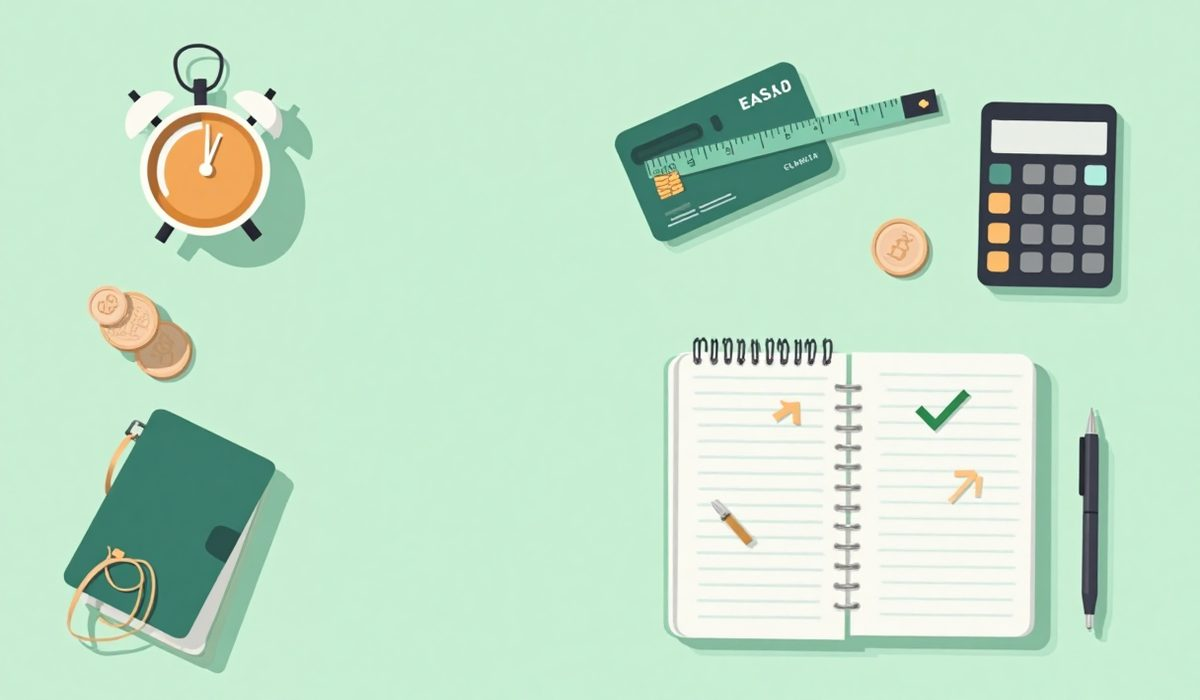
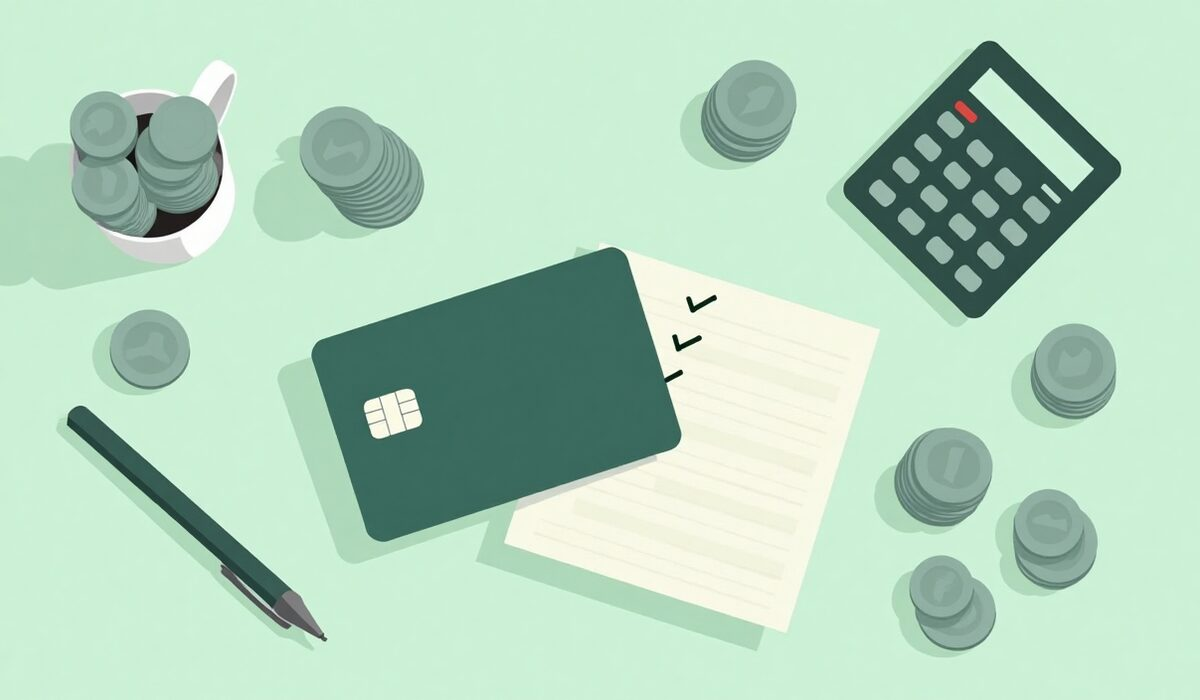
Blog: fix worked example, FAQ, terminology in parcelas-limite post; re-roll cover (#54)
Post fixes (self-review pass the first automated run skipped):
- Worked example was self-contradicting: claimed a R$ 300 purchase would be
  REFUSED with R$ 3.160 available. Rewrote so the refused purchase (R$ 3.500
  notebook) actually exceeds the R$ 3.160 free limit — the example now proves
  its own point. Removed the bogus "R$ 600 já foi cobrado" line that
  contradicted the table's "parcelas restantes" column.
- FAQ 3 contradicted FAQ 2 and the body (claimed full reserve stays even
  after paying installments); rewrote around remaining-installments math.
- Terminology: "modelo de crédito rotativo" -> parcelado is not rotativo.
- Hedged bank-specific antecipação/PRICE claim as "alguns bancos / confirme".
- Fixed "recisar" typo, "**- " bold-bullet rendering, broken link anchor.

Cover re-rolled (seed 777113 via MEUGRANA_SEED): original had garbled
pseudo-text on the card and a lopsided composition. New render is clean
(no text artifacts), palette-correct, balanced. coverAlt updated to match
the new scene. Added MEUGRANA_SEED env override to gen_blog_covers.py for
targeted re-rolls.

Prompt: added mandatory Step 7 adversarial self-review (recompute all
numbers, check FAQ/body consistency, terminology, cover text artifacts)
before the build gate — this is the step whose absence let the above ship.

Claude-Session: https://claude.ai/code/session_01JfUsLUZobLbZiGAboVhBwR

diff --git a/scripts/gen_blog_covers.py b/scripts/gen_blog_covers.py
@@ -50,9 +50,12 @@ SCENES = {
     "como-evitar-compras-por-impulso":
         "a shopping cart in the center, a large hourglass, a wallet tied shut with a ribbon bow "
         "and a few stacks of coins",
+    # re-rolled with MEUGRANA_SEED=777113: original render (seed 777011) had
+    # garbled pseudo-text on the card and a lopsided composition
     "parcelas-ocupam-limite-cartao":
-        "a credit card being measured with a tape measure, a stack of coins, a notepad with "
-        "checkmarks and a calculator, a small alarm clock",
+        "a large credit card in the center almost completely covered by tall stacks of coins "
+        "leaving only a small corner of the card visible, a calculator, a notepad with "
+        "checkmarks and a pen",
 }
 
 def workflow(prompt_text, seed):
@@ -111,11 +114,14 @@ def gen(slug, scene, seed):
 
 if __name__ == "__main__":
     only = sys.argv[1:] or list(SCENES)
+    # MEUGRANA_SEED overrides the per-slug seed — used to re-roll a weak render
+    # (garbled text, broken composition) without touching other covers.
+    seed_override = os.environ.get("MEUGRANA_SEED")
     base_seed = 777001
     ok = 0
     for i, slug in enumerate(SCENES):
         if slug not in only:
             continue
-        if gen(slug, SCENES[slug], base_seed + i):
+        if gen(slug, SCENES[slug], int(seed_override) if seed_override else base_seed + i):
             ok += 1
     print(f"DONE {ok}/{len(only)}", flush=True)

diff --git a/scripts/BLOG_POST_PROMPT.md b/scripts/BLOG_POST_PROMPT.md
@@ -173,11 +173,25 @@ Add the new slug to `relatedSlugs` of 1–2 of the most closely related publishe
 2. If the backlog is now short (< 3 items), add 1–2 new backlog ideas with keyword, funnel stage, and a one-line angle note. Keep tables sorted by number.
 3. Tick through the per-post checklist in the plan and fix anything that fails.
 
-## Step 7: Verify the build
+## Step 7: Adversarial self-review — MANDATORY, do not skip
+
+Re-read the finished post as a hostile fact-checker who wants to find an error. This is a separate verification pass, not writing guidance — the first automated run shipped a worked example that disproved its own point, so check each item explicitly:
+
+1. **Recompute every number from scratch.** Every multiplication, sum, and subtraction in tables AND prose. Then check the numbers *against each other*: does the conclusion drawn from a table actually follow from it? (e.g., if R$ 3.160 is available, a R$ 300 purchase is approved, not refused — make the example's outcome match its own arithmetic.)
+2. **Check internal consistency**: FAQ answers vs body, table column headers vs how the text reads them ("parcelas restantes" ≠ "parcelas pagas"), earlier sections vs later ones. One mechanism, described identically everywhere.
+3. **Check terminology**: parcelado ≠ rotativo ≠ parcelamento da fatura — these are different credit products; never blur them. Bank-specific mechanics ("com desconto", "tabela PRICE") get hedged as "alguns bancos" + "confirme as condições no seu banco", or cut.
+4. **Proofread pt-BR**: typos, agreement errors, link anchor text that reads grammatically.
+5. **Check markdown rendering**: lists start with `- ` (not `**- `), tables aligned, no H1 in body.
+6. **Zoom into the cover image at full size**: any letters, numbers, or pseudo-text anywhere (cards, rulers, buttons, coins) → re-roll with a new seed. Lopsided composition (half the frame empty) → re-roll.
+7. **Re-run the smell test**: would this feel like an ad without the site logo?
+
+Fix everything found, then re-run this step until a full pass finds nothing.
+
+## Step 8: Verify the build
 
 Run `pnpm install && pnpm build`. The Zod schema enforces title/description limits — the build MUST pass before you commit. If it fails, fix the frontmatter, don't loosen the schema.
 
-## Step 8: Commit and Push
+## Step 9: Commit and Push
 
 1. `git add -A && git commit -m "Blog: POST_TITLE"`
 2. `git push origin main`